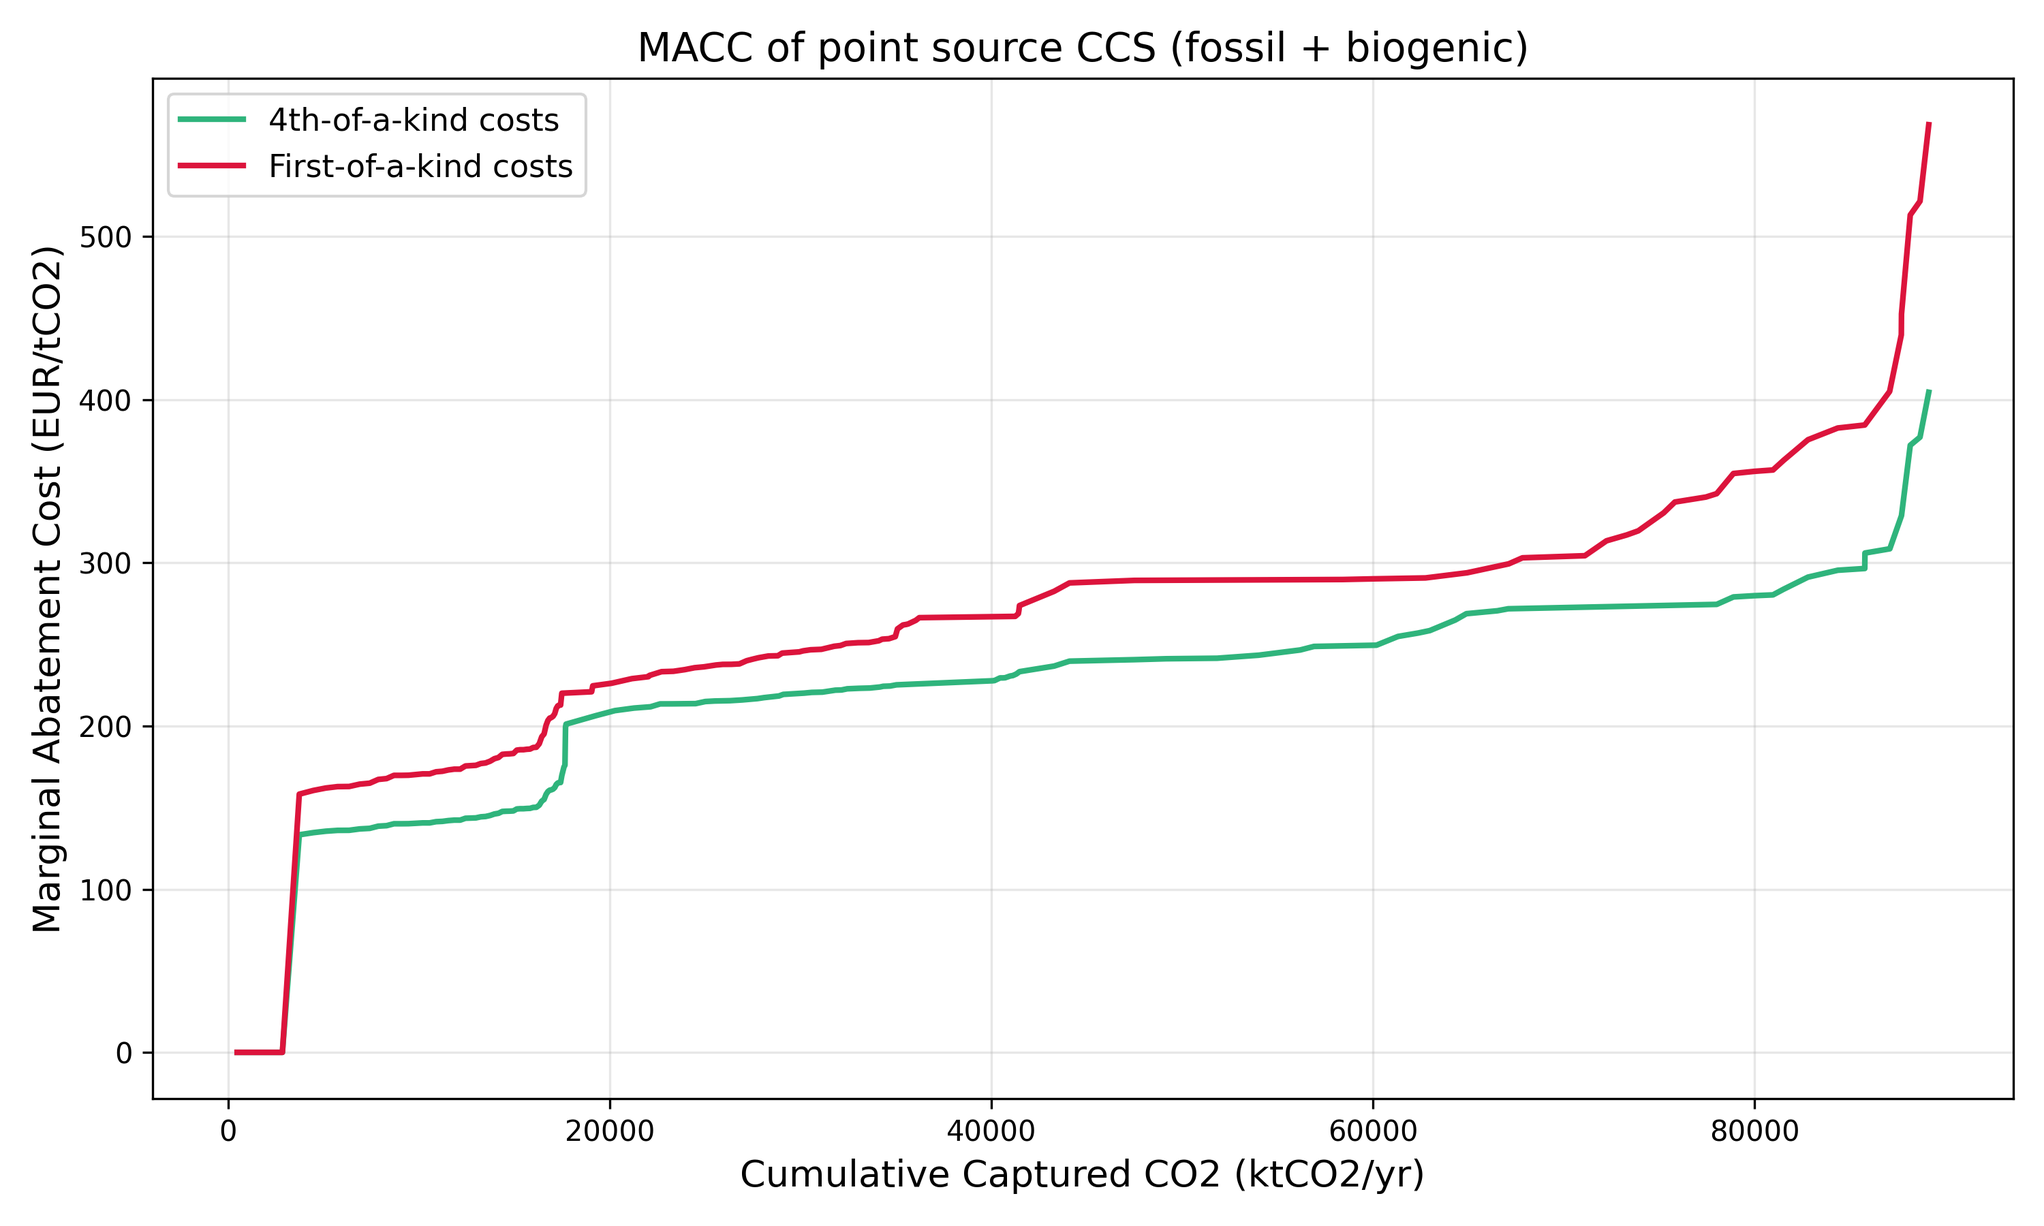
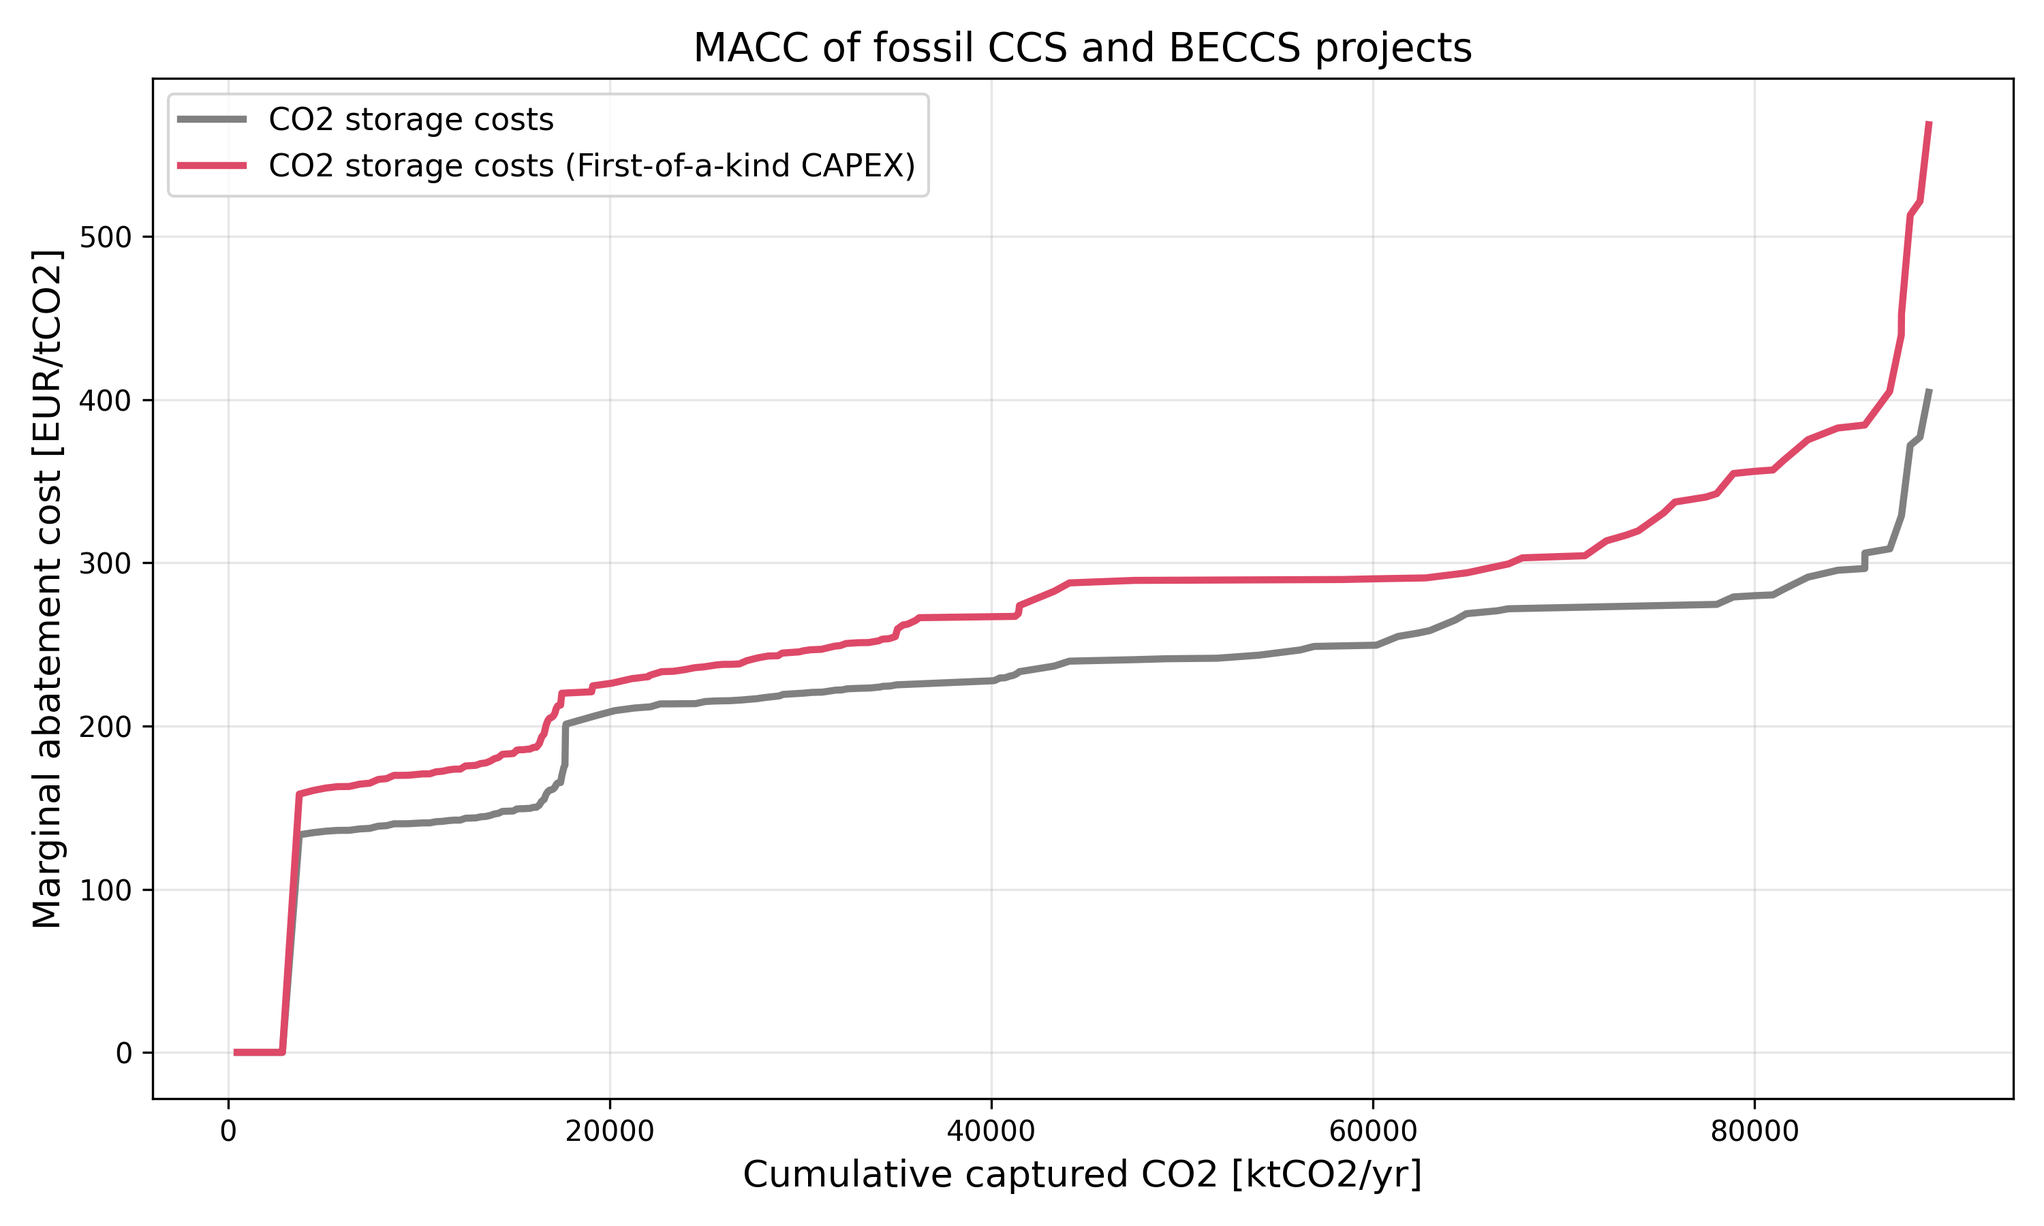
New plots for DESNZ

diff --git a/plot_results.py b/plot_results.py
@@ -89,7 +89,7 @@ def plot_timeseries_by_scenario(combined_df, array_data, scenario_col="ETS_SCENA
     ets_colors = {"Low": magma(0.1), "Medium": magma(0.5), "High": magma(0.9)}
     years = np.arange(start_year, start_year + array_data.shape[1])
     
-    plt.figure(figsize=(5, 6))
+    plt.figure(figsize=(10, 6))
     for category in ["Low", "Medium", "High"]:
         mask = combined_df[scenario_col] == category
         if mask.sum() == 0:
@@ -100,18 +100,19 @@ def plot_timeseries_by_scenario(combined_df, array_data, scenario_col="ETS_SCENA
         std_vals = category_data.std(axis=0)
         color = ets_colors[category]
         
-        plt.plot(years, mean_vals, label=category, linewidth=2, color=color)
+        label_dict = {"Low": "ETS=200", "Medium": "ETS=300", "High": "ETS=400"}
+        plt.plot(years, mean_vals, label=f'If {label_dict[category]}£ by 2050', linewidth=2, color=color)
         plt.fill_between(years, mean_vals - std_vals, mean_vals + std_vals, 
                          alpha=0.2, color=color)
     
     plt.xlabel('Year', fontsize=13)
     plt.ylabel(ylabel or 'Value', fontsize=13)
+    plt.xlim(start_year, 2050)
     plt.title(title or 'Time Series by ETS Scenario', fontsize=14)
-    plt.legend(fontsize=11, title='ETS Scenario')
+    plt.legend(fontsize=11)
     plt.grid(True, alpha=0.3)
     plt.tight_layout()
-    if savefig:
-        plt.savefig(f'4_{title}.png', dpi=300)
+    plt.savefig(f'7_{title}.png', dpi=400)
 
 
 def plot_ctbo_total_cost(combined_df, array_outcomes, scenario_col="ETS_SCENARIO",
@@ -130,7 +131,7 @@ def plot_ctbo_total_cost(combined_df, array_outcomes, scenario_col="ETS_SCENARIO
     ets_colors = {"Low": magma(0.1), "Medium": magma(0.5), "High": magma(0.9)}
     years = np.arange(start_year, start_year + ctbo_cost.shape[1])
     
-    plt.figure(figsize=(5, 6))
+    plt.figure(figsize=(10, 6))
     for category in ["Low", "Medium", "High"]:
         mask = combined_df[scenario_col] == category
         if mask.sum() == 0:
@@ -141,16 +142,19 @@ def plot_ctbo_total_cost(combined_df, array_outcomes, scenario_col="ETS_SCENARIO
         std_vals = category_data.std(axis=0)
         color = ets_colors[category]
         
-        plt.plot(years, mean_vals, label=category, linewidth=2, color=color)
+        label_dict = {"Low": "ETS=200", "Medium": "ETS=300", "High": "ETS=400"}
+        plt.plot(years, mean_vals, label=f'If {label_dict[category]}£ by 2050', linewidth=2, color=color)
         plt.fill_between(years, mean_vals - std_vals, mean_vals + std_vals, 
                          alpha=0.2, color=color)
     
     plt.xlabel('Year', fontsize=13)
-    plt.ylabel(ylabel or 'Total CTBO Cost (MEUR/yr)', fontsize=13)
+    plt.ylabel(ylabel or 'Fuel supplier costs [MEUR/yr]', fontsize=13)
+    plt.xlim(start_year, 2050)
     plt.title(title or 'Total CTBO Cost Over Time by ETS Scenario', fontsize=14)
-    plt.legend(fontsize=11, title='ETS Scenario')
+    plt.legend(fontsize=11)
     plt.grid(True, alpha=0.3)
     plt.tight_layout()
+    plt.savefig(f'8_{title}.png', dpi=400)
 
 
 def plot_csu_cost_with_ets(combined_df, array_outcomes, scenario_col="ETS_SCENARIO",
@@ -167,7 +171,7 @@ def plot_csu_cost_with_ets(combined_df, array_outcomes, scenario_col="ETS_SCENAR
         return
     
     magma = plt.cm.magma
-    ets_colors = {"Low": magma(0.1), "Medium": '#107E7D', "High": magma(0.9)}
+    ets_colors = {"Low": magma(0.1), "Medium": magma(0.5), "High": magma(0.9)}
     years = np.arange(start_year, start_year + csu_cost.shape[1])
     
     plt.figure(figsize=(10, 6))
@@ -183,7 +187,8 @@ def plot_csu_cost_with_ets(combined_df, array_outcomes, scenario_col="ETS_SCENAR
         std_vals = category_data.std(axis=0)
         color = ets_colors[category]
         
-        plt.plot(years, mean_vals, label=f'CSU Cost ({category})', linewidth=2, color=color)
+        label_dict = {"Low": "ETS=200", "Medium": "ETS=300", "High": "ETS=400"}
+        plt.plot(years, mean_vals, label=f'CSU cost if {label_dict[category]}£', linewidth=2, color=color)
         plt.fill_between(years, mean_vals - std_vals, mean_vals + std_vals, 
                          alpha=0.2, color=color)
     
@@ -197,15 +202,17 @@ def plot_csu_cost_with_ets(combined_df, array_outcomes, scenario_col="ETS_SCENAR
             mean_ets = category_ets.mean(axis=0)
             color = ets_colors[category]
             
-            plt.plot(years, mean_ets, label=f'ETS Price ({category})', 
+            plt.plot(years, mean_ets, label=f'{label_dict[category]}£ by 2050', 
                      linewidth=2, linestyle='--', color=color, alpha=0.7)
     
     plt.xlabel('Year', fontsize=13)
-    plt.ylabel(ylabel or 'Cost (EUR/tCO2)', fontsize=13)
+    plt.ylabel('CSU/ETS price [€/tCO2]', fontsize=13)
+    plt.xlim(start_year, 2050)
     plt.title(title or 'CSU Cost and ETS Price Over Time by ETS Scenario', fontsize=14)
-    plt.legend(fontsize=10, title='Scenario', ncol=2)
+    plt.legend(fontsize=10, title=None, ncol=2)
     plt.grid(True, alpha=0.3)
     plt.tight_layout()
+    plt.savefig(f'9_{title}.png', dpi=400)
 
 
 def plot_carbon_balance(combined_df, array_outcomes, start_year=2025, debug=False):
@@ -213,10 +220,11 @@ def plot_carbon_balance(combined_df, array_outcomes, start_year=2025, debug=Fals
     if debug:
         print("Plotting carbon balance")
     
-    supplied = array_outcomes.get("supplied_CO2_vec")
-    emissions = array_outcomes.get("total_emissions_vec")
-    mandate = array_outcomes.get("ctbo_mandate_vec")
-    CDR = array_outcomes.get("CDR_capacity_vec")
+    # Divide by 1000 to convert to MtCO2/yr
+    supplied = array_outcomes.get("supplied_CO2_vec") / 1000
+    emissions = array_outcomes.get("total_emissions_vec") / 1000
+    mandate = array_outcomes.get("ctbo_mandate_vec") / 1000
+    CDR = array_outcomes.get("CDR_capacity_vec") / 1000
     
     if supplied is None or emissions is None or mandate is None:
         print("Warning: Missing carbon balance data (supplied_CO2_vec, total_emissions_vec, ctbo_mandate_vec)")
@@ -238,14 +246,14 @@ def plot_carbon_balance(combined_df, array_outcomes, start_year=2025, debug=Fals
     median_em = np.percentile(emissions, 50, axis=0)
     p5_em = np.percentile(emissions, 5, axis=0)
     p95_em = np.percentile(emissions, 95, axis=0)
-    plt.plot(years, median_em, label='Gross Emitted CO2', linewidth=2, color=magma(0.30), linestyle='--')
+    plt.plot(years, median_em, label='Gross emitted CO2', linewidth=2, color=magma(0.30), linestyle='--')
     plt.fill_between(years, p5_em, p95_em, alpha=0.25, color=magma(0.30))
     
     # CTBO mandate
     median_man = np.percentile(mandate, 50, axis=0)
     p5_man = np.percentile(mandate, 5, axis=0)
     p95_man = np.percentile(mandate, 95, axis=0)
-    plt.plot(years, median_man, label='CTBO Mandate (Fossil CCS+BECCS+DACCS)', linewidth=2, color='gray', linestyle=':')
+    plt.plot(years, median_man, label='CTBO mandate (CCS+BECCS+DACCS)', linewidth=2, color='gray', linestyle=':')
     plt.fill_between(years, p5_man, p95_man, alpha=0.25, color='gray')
 
     # CDR capacity
@@ -256,7 +264,7 @@ def plot_carbon_balance(combined_df, array_outcomes, start_year=2025, debug=Fals
     plt.fill_between(years, p5_cdr, p95_cdr, alpha=0.25, color=magma(0.60))
     
     plt.xlabel('Year', fontsize=13)
-    plt.ylabel('ktCO2/yr', fontsize=13)
+    plt.ylabel('Carbon [MtCO2/yr]', fontsize=13)
     plt.title('Carbon Balance: Supplied CO2, Emissions, and CTBO Mandate', fontsize=14)
     plt.legend(fontsize=11)
     plt.grid(True, alpha=0.3)
@@ -570,7 +578,7 @@ def plot_npv_bubbles(combined_df, array_outcomes, plant_names=None,
     if debug:
         print(f"Plotting NPV boxplot by plant type and size (ETS={ETS_filter})")
     
-    plant_npv_net = array_outcomes.get("plant_npv_net")
+    plant_npv_net = array_outcomes.get("plant_npv_net") /1000
     plant_inv_year = array_outcomes.get("plant_investment_year")
     plant_captured_total = array_outcomes.get("plant_captured_total")
     
@@ -670,9 +678,9 @@ def plot_npv_bubbles(combined_df, array_outcomes, plant_names=None,
     # Formatting
     # ------------------------------------------------------------------
 
-    ax.set_xlabel("Mean investment year")
-    ax.set_ylabel("Mean NPV")
-    ax.set_title("Plant-level NPV vs Investment Year\nBubble size = median captured CO₂")
+    ax.set_xlabel("Average investment year", fontsize=13)
+    ax.set_ylabel("Average NPV [M€] due to CSU profits/costs", fontsize=13)
+    ax.set_title("Plant-level NPV vs Investment Year\nBubble size = median captured CO₂", fontsize=13)
 
     ax.axhline(y=0, color='black', linestyle='-', linewidth=0.5, alpha=0.9)
 
@@ -681,11 +689,13 @@ def plot_npv_bubbles(combined_df, array_outcomes, plant_names=None,
     ax.set_xticklabels([str(y) for y in xticks])
 
     ax.set_xlim(2024, 2051)
+    ax.set_ylim(-300, 1000)
 
     ax.legend(title="Plant type")
     ax.grid(True, linestyle="--", alpha=0.4)
 
     plt.tight_layout()
+    plt.savefig(f'10_npv_bubbles.png', dpi=400)
 
     # Add one for Drax BECCS
     if beccs_mask.any():
@@ -726,6 +736,7 @@ def plot_npv_bubbles(combined_df, array_outcomes, plant_names=None,
         ax_beccs.grid(True, linestyle="--", alpha=0.4)
 
         plt.tight_layout()
+        
     
 def plot_npv_boxplot_by_year_range(combined_df, array_outcomes, plant_names=None,
                                     plant_suffix="-CCGT", ETS_filter=None, scenario_col="ETS_SCENARIO", debug=False):
@@ -1386,18 +1397,8 @@ if __name__ == "__main__":
         plot_timeseries_by_scenario(
             combined_df,
             array_outcomes["gas_increase_pct"],
-            ylabel="Gas Price Increase (%)",
-            title="Gas Price Increase Over Time by ETS Scenario",
-            savefig=True
-        )
-    
-    # Plot 3: CTBO levelized cost over time
-    if "CTBO_cost_lev_vec" in array_outcomes:
-        plot_timeseries_by_scenario(
-            combined_df,
-            array_outcomes["CTBO_cost_lev_vec"],
-            ylabel="CTBO Cost (EUR/tCO2)",
-            title="Levelized CTBO Cost Over Time by ETS Scenario",
+            ylabel="Gas price increase (%)",
+            title="Gas increase relative to 6_3 pence per kwh",
             savefig=True
         )
     
@@ -1407,7 +1408,7 @@ if __name__ == "__main__":
         plot_ctbo_total_cost(
             combined_df,
             array_outcomes,
-            ylabel="Total CTBO Cost (MEUR/yr)",
+            ylabel="Fuel supplier costs [M€/yr]",
             title="Total CTBO Cost Over Time by ETS Scenario"
         )
     
@@ -1417,7 +1418,7 @@ if __name__ == "__main__":
         plot_csu_cost_with_ets(
             combined_df,
             array_outcomes,
-            ylabel="Cost (EUR/tCO2)",
+            ylabel="CSU/ETS price [€/tCO2]",
             title="CSU Cost and ETS Price Over Time by ETS Scenario"
         )
     
@@ -1434,31 +1435,31 @@ if __name__ == "__main__":
     # Plot 8: NPV boxplot by plant type
     plot_npv_boxplot_by_plant_type(combined_df, array_outcomes, plant_names, ETS_filter="High", debug=True)
 
-    plot_npv_bubbles(combined_df, array_outcomes, plant_names, ETS_filter="Low", debug=True)
+    plot_npv_bubbles(combined_df, array_outcomes, plant_names, ETS_filter="High", debug=True)
     
-    # Plot 9: NPV cumulative distribution for BECCS plants
-    plot_npv_cumulative_by_suffix(combined_df, array_outcomes, plant_names, 
-                                   plant_suffix="-BECCS", ETS_filter=None, debug=True)
+    # # Plot 9: NPV cumulative distribution for BECCS plants
+    # plot_npv_cumulative_by_suffix(combined_df, array_outcomes, plant_names, 
+    #                                plant_suffix="-BECCS", ETS_filter=None, debug=True)
     
-    # Plot 10: NPV cumulative distribution for W2E plants
-    plot_npv_cumulative_by_suffix(combined_df, array_outcomes, plant_names, 
-                                   plant_suffix="-W2E", ETS_filter=None, debug=True)
+    # # Plot 10: NPV cumulative distribution for W2E plants
+    # plot_npv_cumulative_by_suffix(combined_df, array_outcomes, plant_names, 
+    #                                plant_suffix="-W2E", ETS_filter=None, debug=True)
     
-    # Plot 11: NPV cumulative distribution for CCGT plants (High ETS)
-    plot_npv_cumulative_by_suffix(combined_df, array_outcomes, plant_names, 
-                                   plant_suffix="-CCGT", ETS_filter="High", debug=True)
+    # # Plot 11: NPV cumulative distribution for CCGT plants (High ETS)
+    # plot_npv_cumulative_by_suffix(combined_df, array_outcomes, plant_names, 
+    #                                plant_suffix="-CCGT", ETS_filter="High", debug=True)
     
-    # Plot 12: NPV cumulative distribution for CCGT plants invested before 2040
-    plot_npv_cumulative_by_suffix(combined_df, array_outcomes, plant_names, 
-                                   plant_suffix="-CCGT", ETS_filter=None, 
-                                   investment_year_filter="after", year_threshold=2040, debug=True)
+    # # Plot 12: NPV cumulative distribution for CCGT plants invested before 2040
+    # plot_npv_cumulative_by_suffix(combined_df, array_outcomes, plant_names, 
+    #                                plant_suffix="-CCGT", ETS_filter=None, 
+    #                                investment_year_filter="after", year_threshold=2040, debug=True)
     
-    # Plot 13: NPV cumulative distribution for industrial plants (refineries, iron & steel, cement)
-    industrial_suffixes = ["-cement", "-crackers", "-distillation", "-power", "-remaining", 
-                          "-smr", "-stove", "-chp", "-sinter"]
-    plot_npv_cumulative_by_suffixes(combined_df, array_outcomes, plant_names, 
-                                     plant_suffixes=industrial_suffixes, 
-                                     ETS_filter=None, debug=True)
+    # # Plot 13: NPV cumulative distribution for industrial plants (refineries, iron & steel, cement)
+    # industrial_suffixes = ["-cement", "-crackers", "-distillation", "-power", "-remaining", 
+    #                       "-smr", "-stove", "-chp", "-sinter"]
+    # plot_npv_cumulative_by_suffixes(combined_df, array_outcomes, plant_names, 
+    #                                  plant_suffixes=industrial_suffixes, 
+    #                                  ETS_filter=None, debug=True)
 
     
     # # Fraction of positive NPV vs Investment Year (by ETS scenario)
@@ -1470,8 +1471,8 @@ if __name__ == "__main__":
     # # Fraction of positive NPV - biogenic plants only (W2E/BECCS)
     # plot_positive_npv_fraction_boxplot(combined_df, array_outcomes, plant_names, plant_filter="biogenic", ETS_filter=None)
     
-    # Fraction of positive NPV - fossil plants only
-    plot_positive_npv_fraction_boxplot(combined_df, array_outcomes, plant_names, plant_filter="fossil", ETS_filter=None)
+    # # Fraction of positive NPV - fossil plants only
+    # plot_positive_npv_fraction_boxplot(combined_df, array_outcomes, plant_names, plant_filter="fossil", ETS_filter=None)
     
     # Carbon balance (supplied, emissions, mandate)
     plot_carbon_balance(combined_df, array_outcomes)

diff --git a/ctbo_multiple.py b/ctbo_multiple.py
@@ -627,7 +627,7 @@ def simulate_ctbo(
 
     # The plant named "Padeswood-cement" should have total_4OAK = 0
     if "Padeswood-cement" in results_df['site-stack'].values:
-        print("Added Padeswood-cement that received subsidies and has zero abatement cost")
+        # print("Added Padeswood-cement that received subsidies and has zero abatement cost")
         padeswood_cement_idx = results_df[results_df['site-stack'] == 'Padeswood-cement'].index[0]
         results_df.loc[padeswood_cement_idx, 'total_4OAK'] = 0
         results_df.loc[padeswood_cement_idx, 'total_FOAK'] = 0
@@ -649,7 +649,7 @@ def simulate_ctbo(
         distance_km=0
     )
     results_df = pd.concat([results_df, pd.DataFrame([result_protos])], ignore_index=True)
-    print(f"Added Protos that captures {370 * w2e_config['fossil_fraction']} ktCO2f/yr and {370 * (1 - w2e_config['fossil_fraction'])} ktCO2bio/yr at a cost of {result_protos['total_4OAK']:.1f} EUR/tCO2")
+    # print(f"Added Protos that captures {370 * w2e_config['fossil_fraction']} ktCO2f/yr and {370 * (1 - w2e_config['fossil_fraction'])} ktCO2bio/yr at a cost of {result_protos['total_4OAK']:.1f} EUR/tCO2")
 
     # Add a new, free CCGT power plant named "Teeside-CCGT" at 1000 MW zero cost (subsidized)
     result_teeside = create_result_entry(
@@ -668,7 +668,7 @@ def simulate_ctbo(
         distance_km=0
     )
     results_df = pd.concat([results_df, pd.DataFrame([result_teeside])], ignore_index=True)
-    print(f"Added Teeside that captures {result_teeside['captured_CO2f']} ktCO2f/yr at a cost of {result_teeside['total_4OAK']:.1f} EUR/tCO2")
+    # print(f"Added Teeside that captures {result_teeside['captured_CO2f']} ktCO2f/yr at a cost of {result_teeside['total_4OAK']:.1f} EUR/tCO2")
 
     # 4OAK MACC
     results_df_4oak = results_df.sort_values('total_4OAK').copy()
@@ -1135,12 +1135,12 @@ if __name__ == "__main__":
     # Plot 1: MACC curves
     plt.figure(figsize=(10, 6))
     plt.plot(macc_4oak['ktCO2_yr_cumulative'], macc_4oak['EUR/tCO2'],
-             color=viridis(0.65), label='4th-of-a-kind costs', linewidth=2)
+             color='gray', label='CO2 storage costs', linewidth=2.5)
     plt.plot(macc_foak['ktCO2_yr_cumulative'], macc_foak['EUR/tCO2'],
-             color='crimson', label='First-of-a-kind costs', linewidth=2)
-    plt.xlabel('Cumulative Captured CO2 (ktCO2/yr)', fontsize=13)
-    plt.ylabel('Marginal Abatement Cost (EUR/tCO2)', fontsize=13)
-    plt.title('MACC of point source CCS (fossil + biogenic)', fontsize=14)
+             color=magma(0.60), label='CO2 storage costs (First-of-a-kind CAPEX)', linewidth=2.5)
+    plt.xlabel('Cumulative captured CO2 [ktCO2/yr]', fontsize=13)
+    plt.ylabel('Marginal abatement cost [EUR/tCO2]', fontsize=13)
+    plt.title('MACC of fossil CCS and BECCS projects', fontsize=14)
     plt.legend(fontsize=11)
     plt.grid(True, alpha=0.3)
     plt.tight_layout()

diff --git a/controller.py b/controller.py
@@ -51,7 +51,6 @@ if __name__ == "__main__":
         RealParameter("w2e_xCO2", 0.09, 0.13),              # [-] CO2 concentration in W2E flue gas
         RealParameter("drax_xCO2", 0.11, 0.15),             # [-] CO2 concentration in Drax flue gas
         RealParameter("drax_efficiency_penalty", 0.20, 0.28), # [-] Efficiency penalty from CCS on Drax
-        RealParameter("cement_process_fraction", 0.58, 0.68), # [-] Fraction of cement CO2 from process
         RealParameter("FLH_industry", 8400, 8600),
         # Scenario uncertainties
         CategoricalParameter("DACCS_EXPENSIVE", [True, False]),  # [-] DACCS cost scenario
@@ -109,10 +108,11 @@ if __name__ == "__main__":
         Constant("pounds_to_EUR", 1.15),
         Constant("evaporation_enthalpy", 2257),
         Constant("elc_eff", 0.33),
+        Constant("cement_process_fraction", 0.63), # [-] Fraction of cement CO2 from process
     ]
 
-    n_scenarios = 10
-    n_policies = 5
+    n_scenarios = 50
+    n_policies = 20
 
     results = perform_experiments(
         model, 
